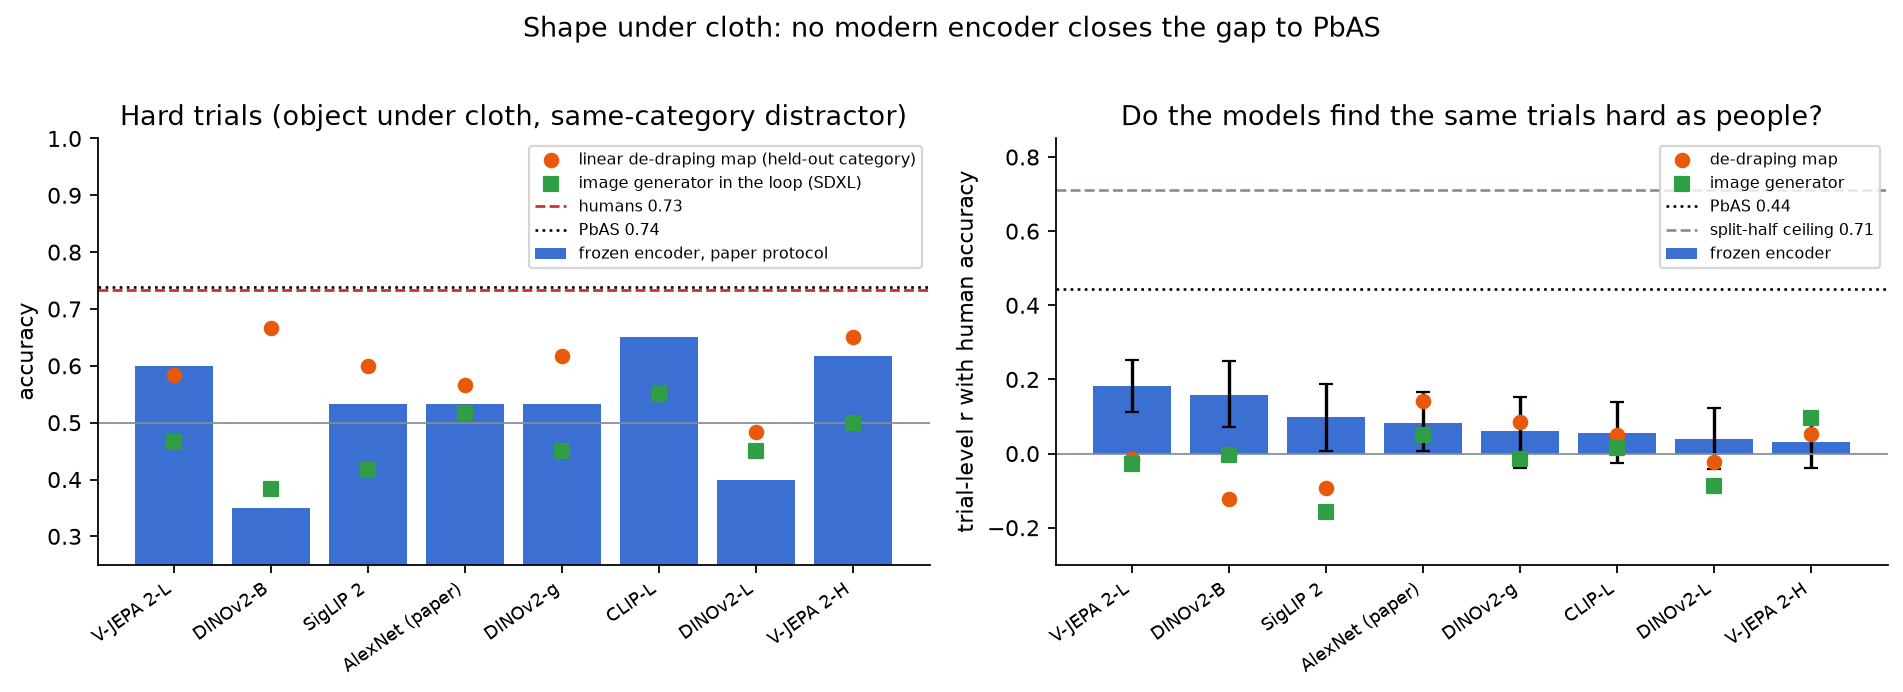
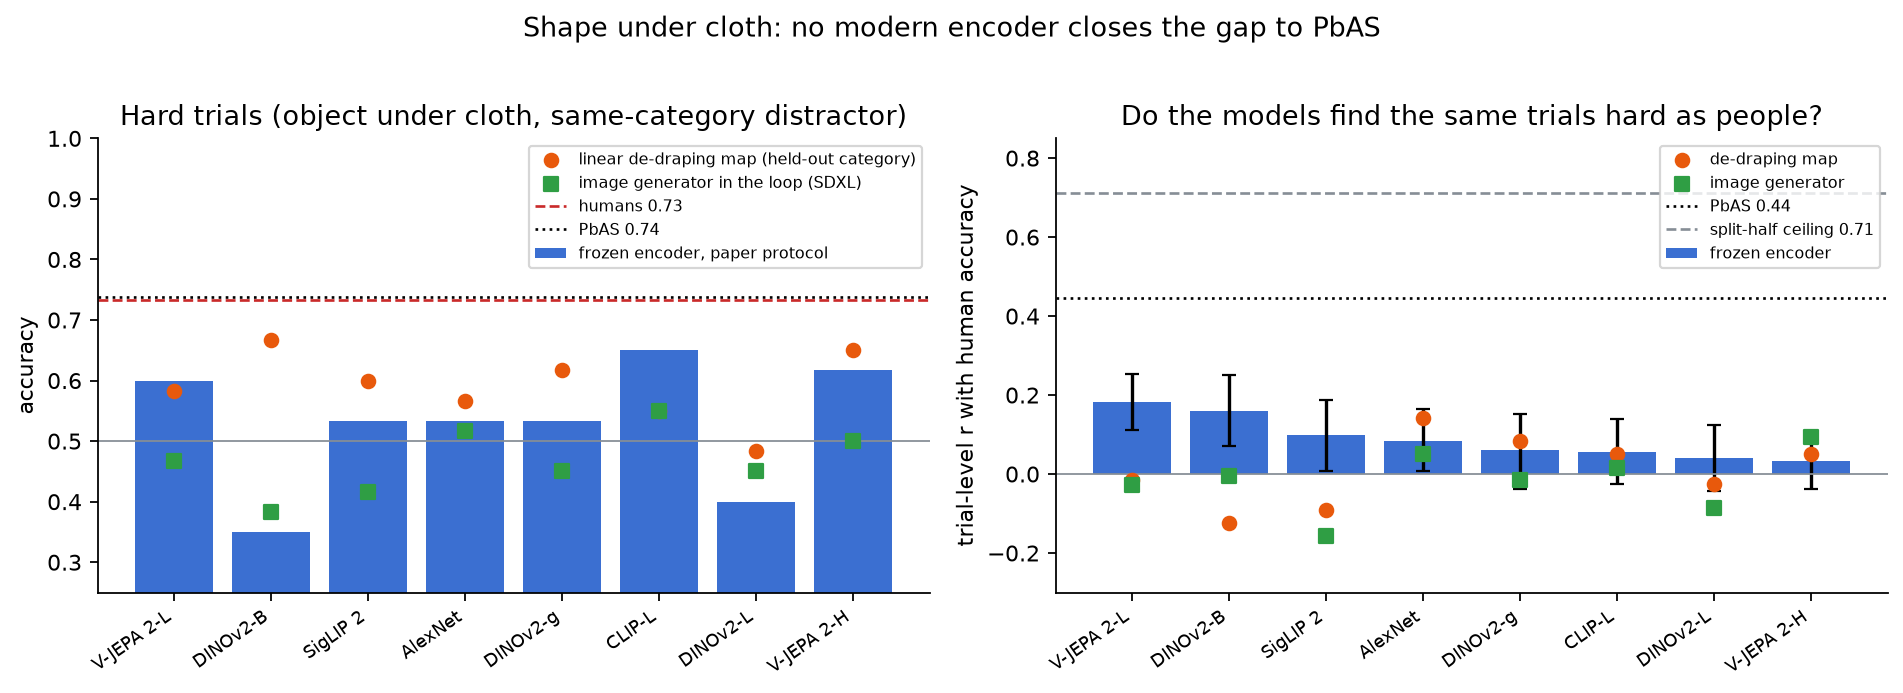
README figure: plain AlexNet label

diff --git a/scripts/make_readme_figures.py b/scripts/make_readme_figures.py
@@ -23,7 +23,7 @@ OUT.mkdir(parents=True, exist_ok=True)
 plt.rcParams.update({"font.size": 10, "axes.spines.top": False, "axes.spines.right": False})
 BLUE, GREEN, RED, GREY, ORANGE = "#3b6fd1", "#2f9e44", "#c92a2a", "#868e96", "#e8590c"
 NAMES = {"vjepaL": "V-JEPA 2-L", "vjepaH": "V-JEPA 2-H", "dinoB": "DINOv2-B", "dinoL": "DINOv2-L", "dinog": "DINOv2-g",
-         "siglip2": "SigLIP 2", "clipL": "CLIP-L", "alexnet": "AlexNet (paper)", "vmaeL": "VideoMAE-L"}
+         "siglip2": "SigLIP 2", "clipL": "CLIP-L", "alexnet": "AlexNet", "vmaeL": "VideoMAE-L"}
 
 
 def cloth():
